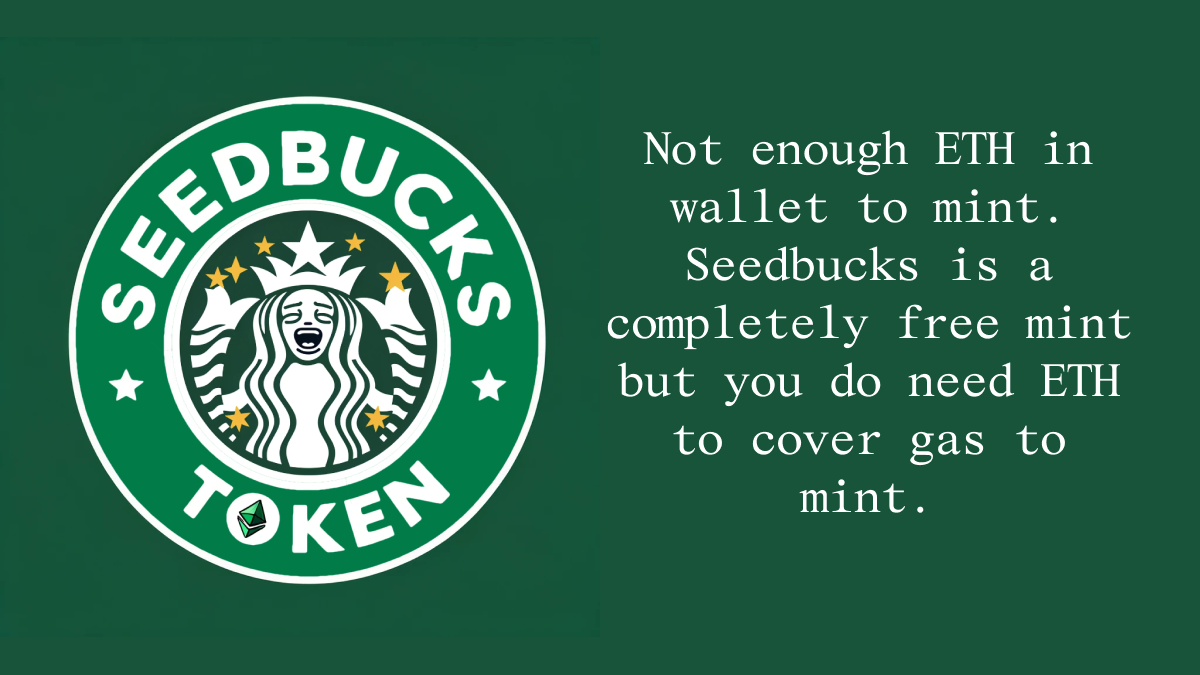
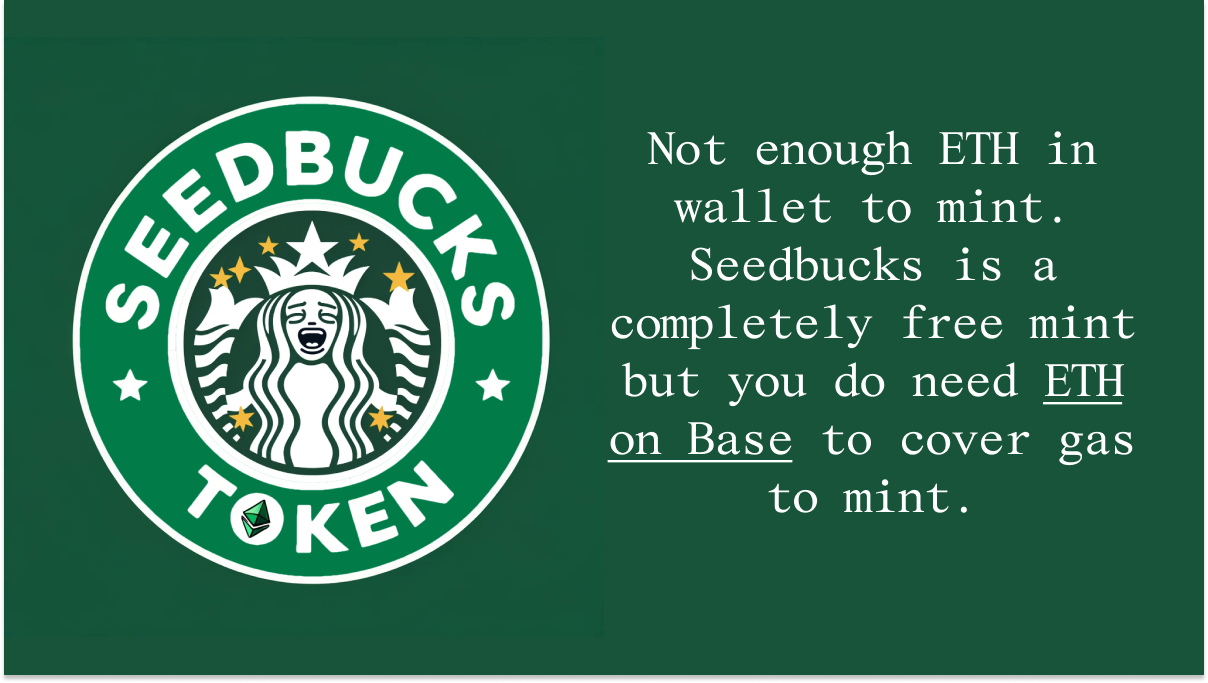
make not enough ETH message clarify chain

diff --git a/src/frameActions.ts b/src/frameActions.ts
@@ -30,7 +30,7 @@ export const images = {
   successfulMint: `https://seedbucks.xyz/static/minted.png`,
   missingSeed: `https://seedbucks.xyz/static/missingseed.png`,
   alreadyMinted: `https://seedbucks.xyz/static/alreadyminted.png`,
-  notEnoughEth: `https://seedbucks.xyz/static/notenougheth.png`,
+  notEnoughEth: `https://seedbucks.xyz/static/notenougheth.png?2`,
 }
 
 export const handleMint = async (c: Context, message: FrameValidationData) => {
